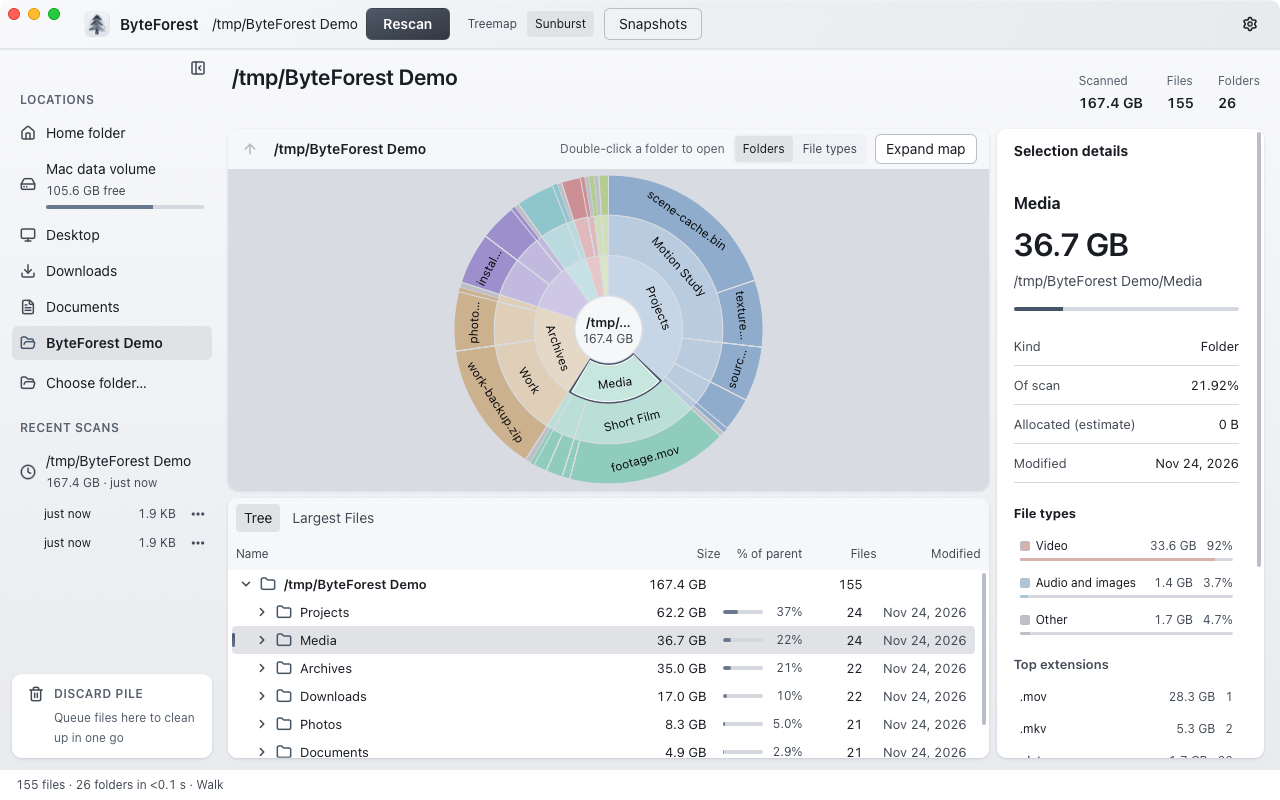
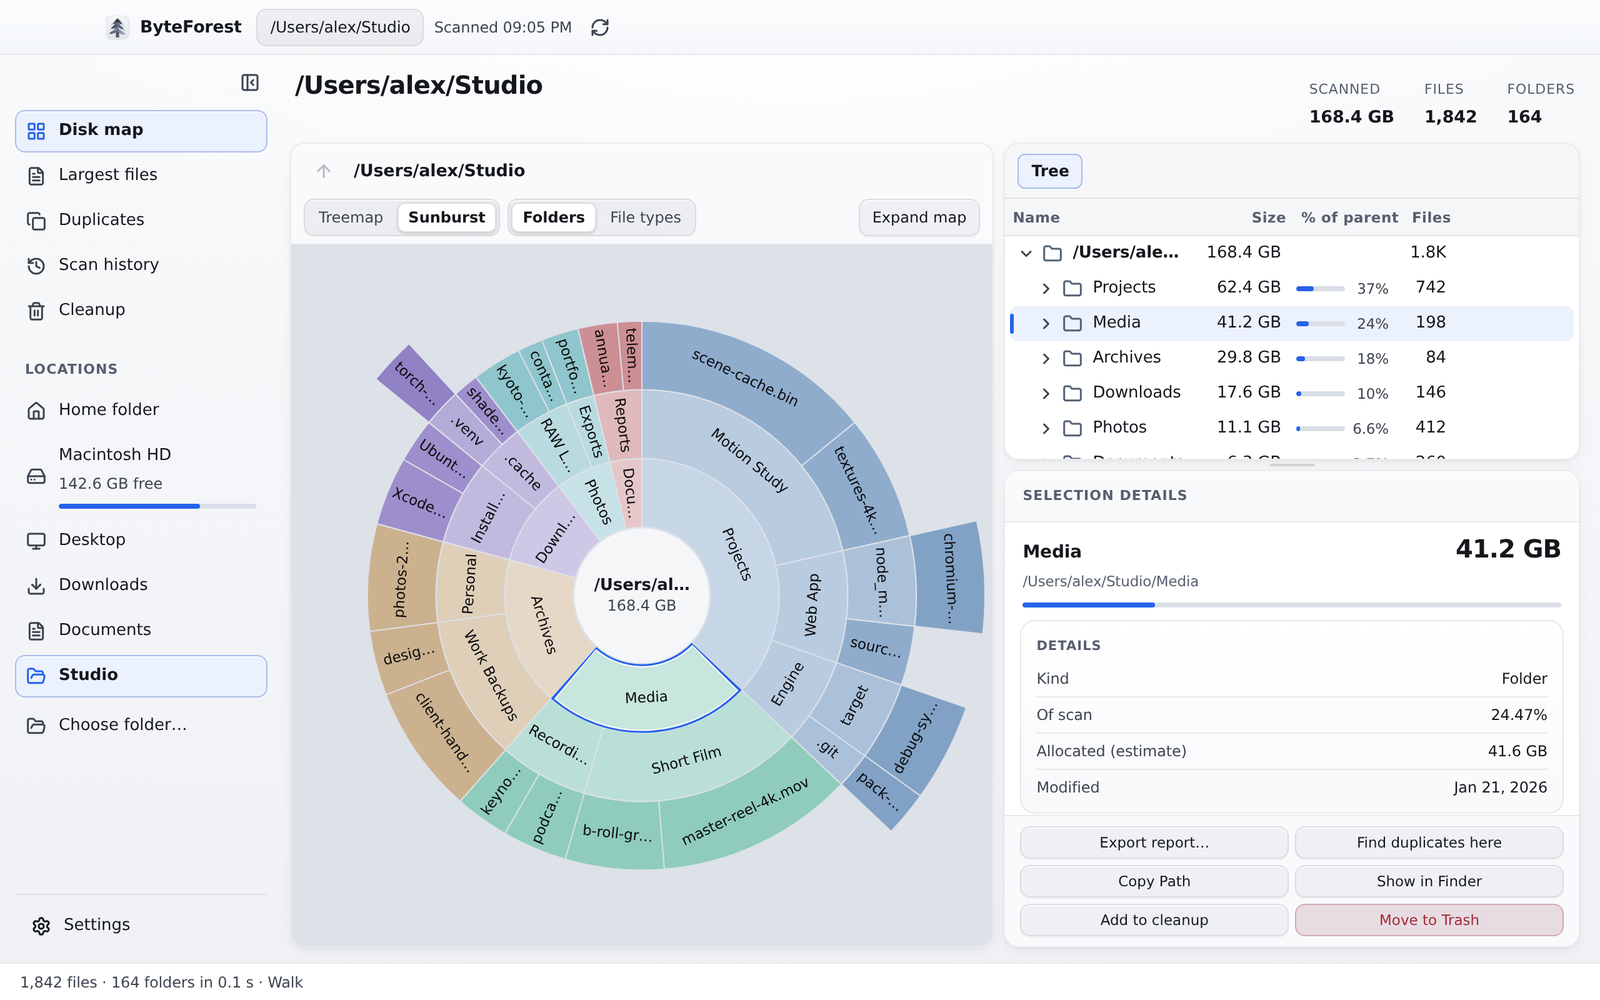
docs: refresh screenshots, README, CHANGELOG, and AGENTS guidelines

diff --git a/README.md b/README.md
@@ -26,13 +26,9 @@
 
 ## Largest files
 
-Open **Largest files** to filter the current scan by type or size. Select files, then open **Cleanup** to review their paths before moving them to the Recycle Bin or Trash.
+Open **Largest files** to filter the current scan by name, extension, type, or size, or click one of the slim space-hog/cache preset pills (`Caches`, `node_modules`, `target`, `.venv`, `.git`, `Disk images`, `>1 GB`) showing reclaimable space. Select files, then open **Cleanup** to review their paths before moving them to the Recycle Bin or Trash.
 
-![Largest files](docs/screenshots/windows-largest-files.png)
-
-![ByteForest on macOS with Treemap, folder tree, and inspector in Graphite](docs/screenshots/macos-treemap-graphite.png)
-
-*Captured on macOS with fictional demo data.*
+![Largest files and cache presets in Graphite](docs/screenshots/windows-largest-files.png)
 
 ## Blazing-fast scanning: MFT and directory walk, with exclusions
 
@@ -63,9 +59,13 @@ These are single-machine numbers, not a formal benchmark; measure your own with 
 - **File-type breakdown** of the selected folder (categories and top extensions) and a **Folders / File types** color mode for the maps, with a legend.
 - **Right-click context menu** (also Shift+F10) on the tree and the maps: open, show in Explorer/Finder, copy the path, or move to the Recycle Bin/Trash after confirmation. Everything updates instantly, without a rescan.
 
-![ByteForest on macOS with the Sunburst chart and inspector in Silver](docs/screenshots/macos-sunburst-silver.png)
+![ByteForest with Treemap, folder tree, and inspector in Graphite](docs/screenshots/macos-treemap-graphite.png)
 
-## Cleanup, auto-snapshots and diff
+![ByteForest with the Sunburst chart and inspector in Silver](docs/screenshots/macos-sunburst-silver.png)
+
+*Captured with fictional demo data.*
+
+## Cleanup, Duplicates, auto-snapshots and diff
 
 - **Cleanup**: queue files and folders from the tree, the maps, Duplicates or the inspector (Delete key or right-click), review the running total in Cleanup, then move everything to the Recycle Bin/Trash in one confirmed step. Nothing is deleted until you confirm, and items that cannot be moved stay queued with the reason.
 - **Duplicates**: open **Duplicates** in the sidebar (or choose **Find duplicates here** on any folder) to verify exact duplicate files with BLAKE3 hashing, filter by category, size or name, pick a keep preset (oldest, newest or shortest path) and queue the extra copies for Cleanup.
@@ -74,10 +74,12 @@ These are single-machine numbers, not a formal benchmark; measure your own with 
 - **Automatic snapshots**: every finished scan is saved in the background (the last 10 are kept by default; 0 to 50 or Off in Settings). Reopen one from the sidebar instantly and read-only, without rescanning, or compare it with the current scan.
 - **CLI diffs**: `byteforest scan <target> --save-snapshot <FILE>` and `--diff <FILE>` (see [Usage](#usage)).
 
+![Duplicate finder with verified BLAKE3 groups in Graphite](docs/screenshots/duplicates-graphite.png)
+
 ## Minimalist UI and 100% offline privacy
 
-- **Radix-inspired, minimalist interface** with a unified left sidebar: your drives, Desktop, Downloads and Documents, recent scans and the Cleanup, collapsing to an icon rail.
-- **Graphite (dark, the default) and Silver (light) themes**, or follow the system, with WCAG AA contrast. Hover effects respect the reduced-motion setting.
+- **Signature obsidian-graphite and frosted-silver interface** inspired by the ByteForest pine mark, with restrained translucent glass on floating chrome and inspector cards, opaque high-contrast tables and maps, and a collapsible left sidebar.
+- **Graphite (dark, the default) and Silver (light) themes**, or follow the system, with WCAG AA contrast. Hover effects and transitions respect the reduced-motion setting.
 - **Works fully offline.** There is no telemetry, no account and no update check, and the code makes no network requests. The app window may only talk to the local Rust backend; the Content Security Policy allows nothing else.
 - **Your data stays on your machine.** Settings are stored in `%APPDATA%\ByteForest\settings.json` and logs in `%LOCALAPPDATA%\ByteForest\logs`. Automatic snapshots (names and sizes of scanned items) are stored in `%LOCALAPPDATA%\dev.byteforest.app\snapshots\auto` (`~/Library/Application Support/dev.byteforest.app/snapshots/auto` on macOS) and can be turned off or limited in Settings.
 

diff --git a/CHANGELOG.md b/CHANGELOG.md
@@ -6,7 +6,7 @@ The format is based on [Keep a Changelog](https://keepachangelog.com/en/1.1.0/),
 
 ## [Unreleased]
 
-- SwiftUI-inspired visual polish across Graphite and Silver: introduce the ByteForest emerald/forest accent (WCAG AA), replace heavy 1 px control outlines with layered surface elevation, unify 32 px toolbar controls and 8 px / 12 px radii, and redesign **Largest files** with a single inline search bar, visible space-hog/cache preset cards showing reclaimable space, Treemap-colored category dots without zero-count clutter, parent-folder-only locations and hover quick actions.
+- Signature Obsidian-Graphite (dark) and Frosted-Silver (light) visual redesign inspired by the ByteForest pine mark: frosted platinum / deep graphite primary buttons, calm steel-blue selection and focus accents (WCAG AA verified), restrained frosted glass on floating chrome, tooltips, menus, modals, segmented controls, and Inspector/Cleanup cards while keeping main tables, folder tree, and disk map canvas 100% opaque, translucent `Details` and `File types` Inspector cards with bottom-anchored actions, slim cache/space-hog preset pills in **Largest files**, and aligned obsidian-silver styling in **Duplicates**.
 
 - Duplicate Finder: find exact duplicate files from the **Duplicates** view in the sidebar or "Find duplicates here" on any folder. Estimates candidates instantly in memory, verifies matches in three steps (size → partial hash → full BLAKE3 on a bounded I/O thread pool) while skipping hardlinks, reparse points and cloud placeholders, and supports an optional hidden/system file toggle, category/size/name filters, auto-select presets (Keep oldest, Keep newest, Keep shortest path) with an all-copies-queued warning, cached results that prune automatically after cleanup, and direct Cleanup queue integration. The CLI gets `byteforest dupes <target>` with `--min-size`, `--top`, `--exclude`, `--include-hidden` and `--json`.
 

diff --git a/AGENTS.md b/AGENTS.md
@@ -23,7 +23,7 @@ Run `cargo test --workspace`, `npm --prefix app test`, and `cargo deny check`. N
 
 ## Commits and Pull Requests
 
-Use the repository’s documented Conventional Commits style, such as `fix(scan): handle unreadable folders`. Keep pull requests focused. Explain what changed and why, link relevant issues with `Closes #123`, and report checks run. Update `CHANGELOG.md` under `[Unreleased]` for user-visible changes. Report security issues privately via [SECURITY.md](SECURITY.md).
+Use the repository’s documented Conventional Commits style, such as `fix(scan): handle unreadable folders`. Keep pull requests focused. Explain what changed and why, link relevant issues with `Closes #123`, and report checks run. Update `CHANGELOG.md` under `[Unreleased]` for user-visible changes. Whenever a noticeable UI redesign or new visual feature lands, keep `README.md` and `docs/screenshots/` clean and up to date incrementally for the affected screens. Report security issues privately via [SECURITY.md](SECURITY.md).
 
 ## Performance & Simplicity Guardrails
 
